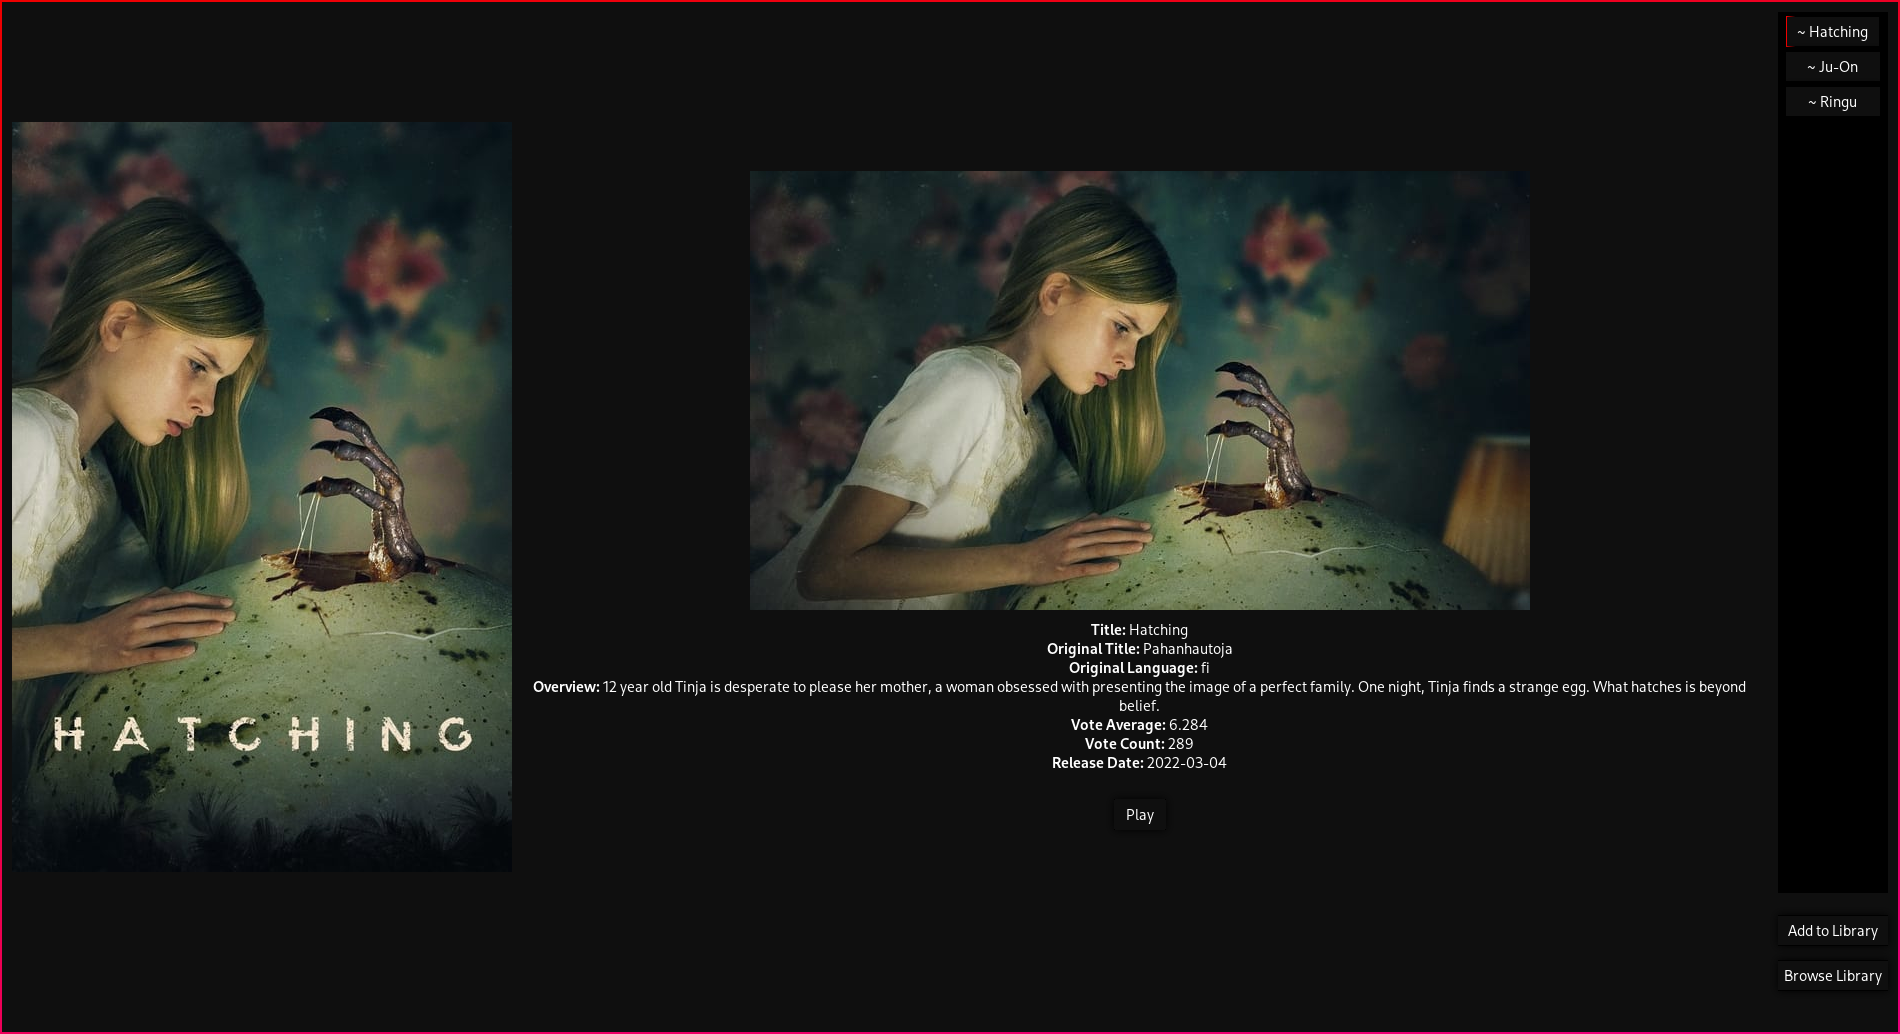
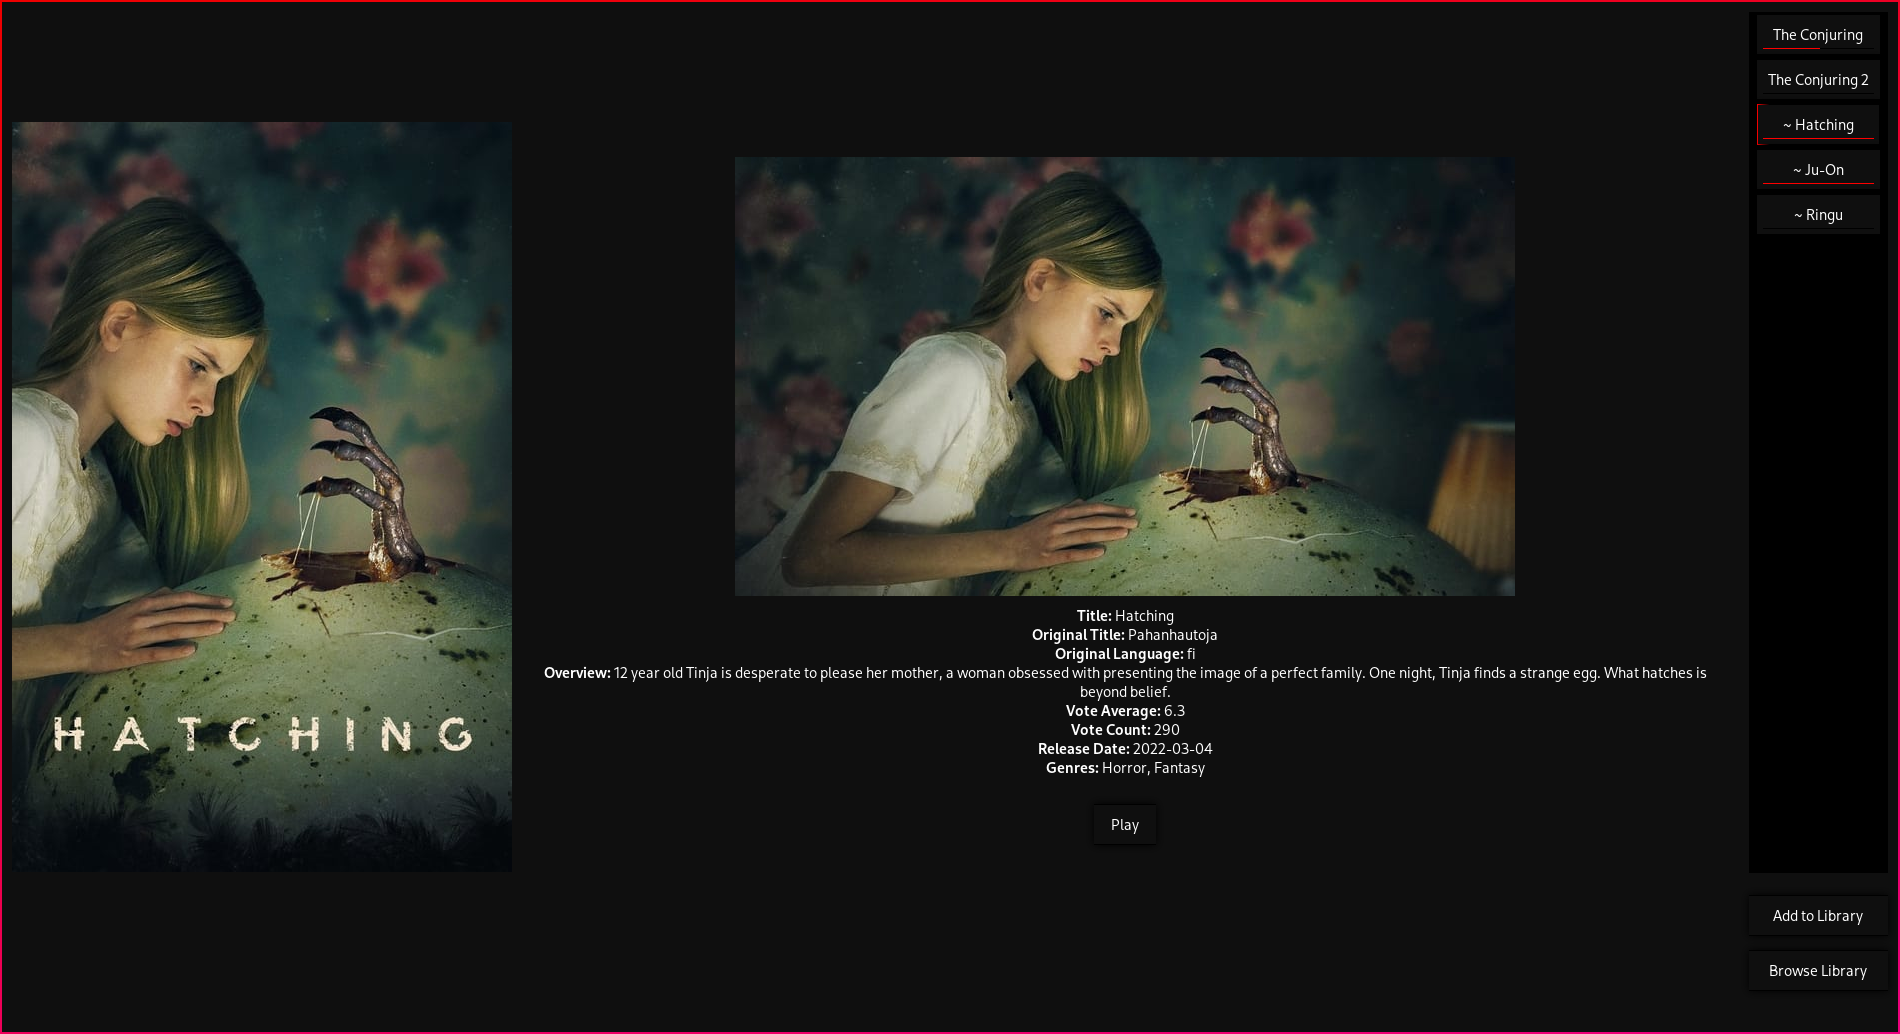
Readme, screenshots

diff --git a/README.md b/README.md
@@ -10,6 +10,7 @@ This is a gtk movie library browser written in rust.
 	- vote average and count
 	- release date
  - Playing the selected movie in <b>mpv</b>
+ - Tracking progress
 
 ## Installation
 ### Arch linux
